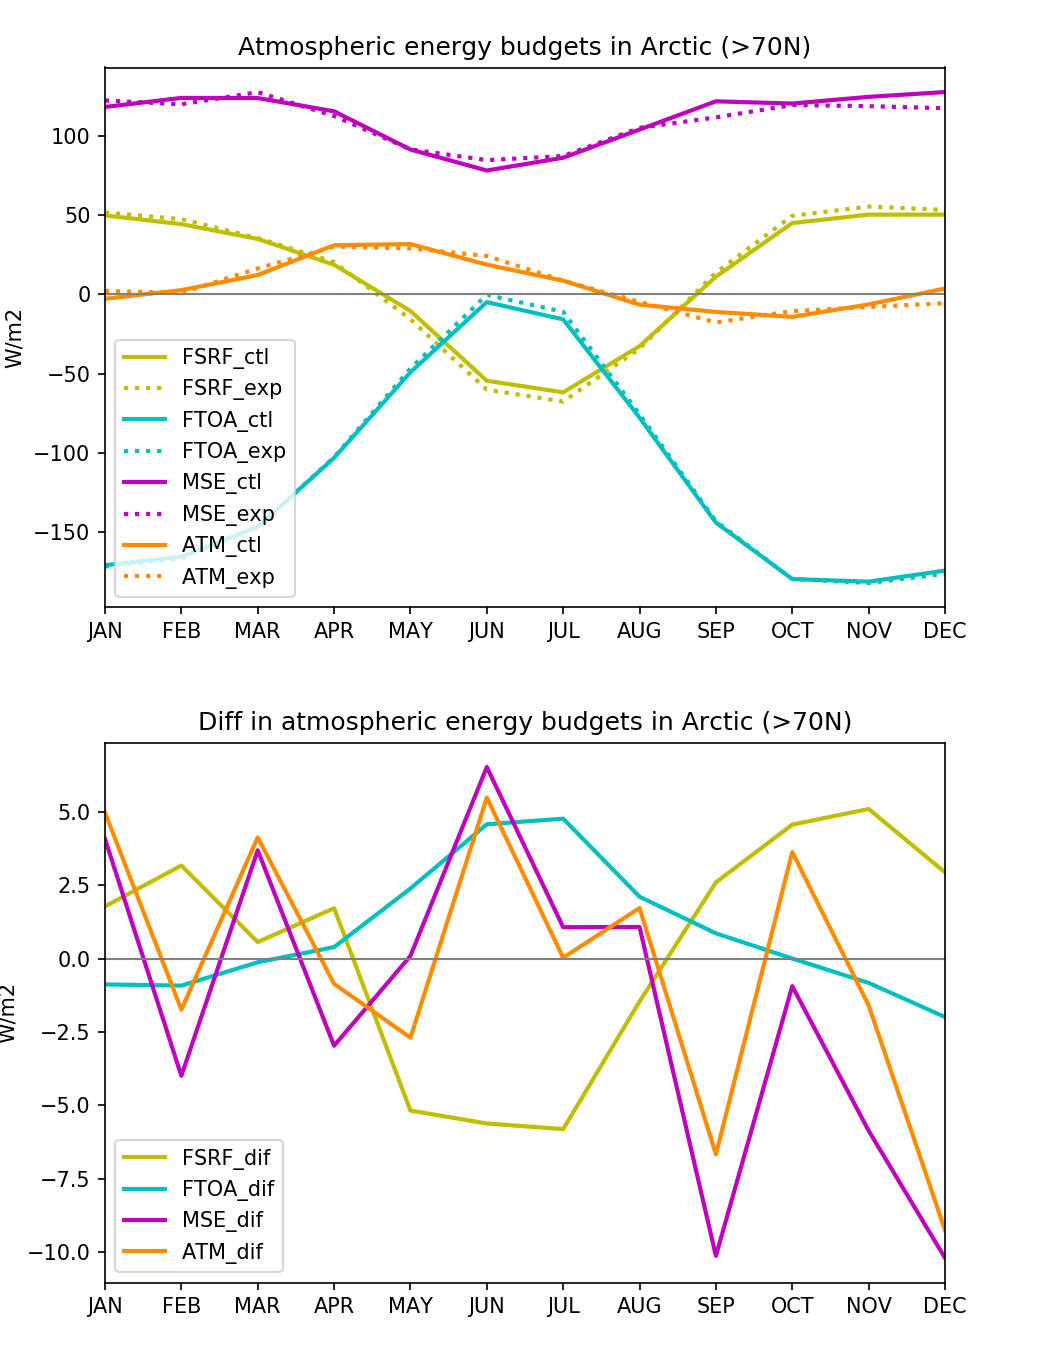
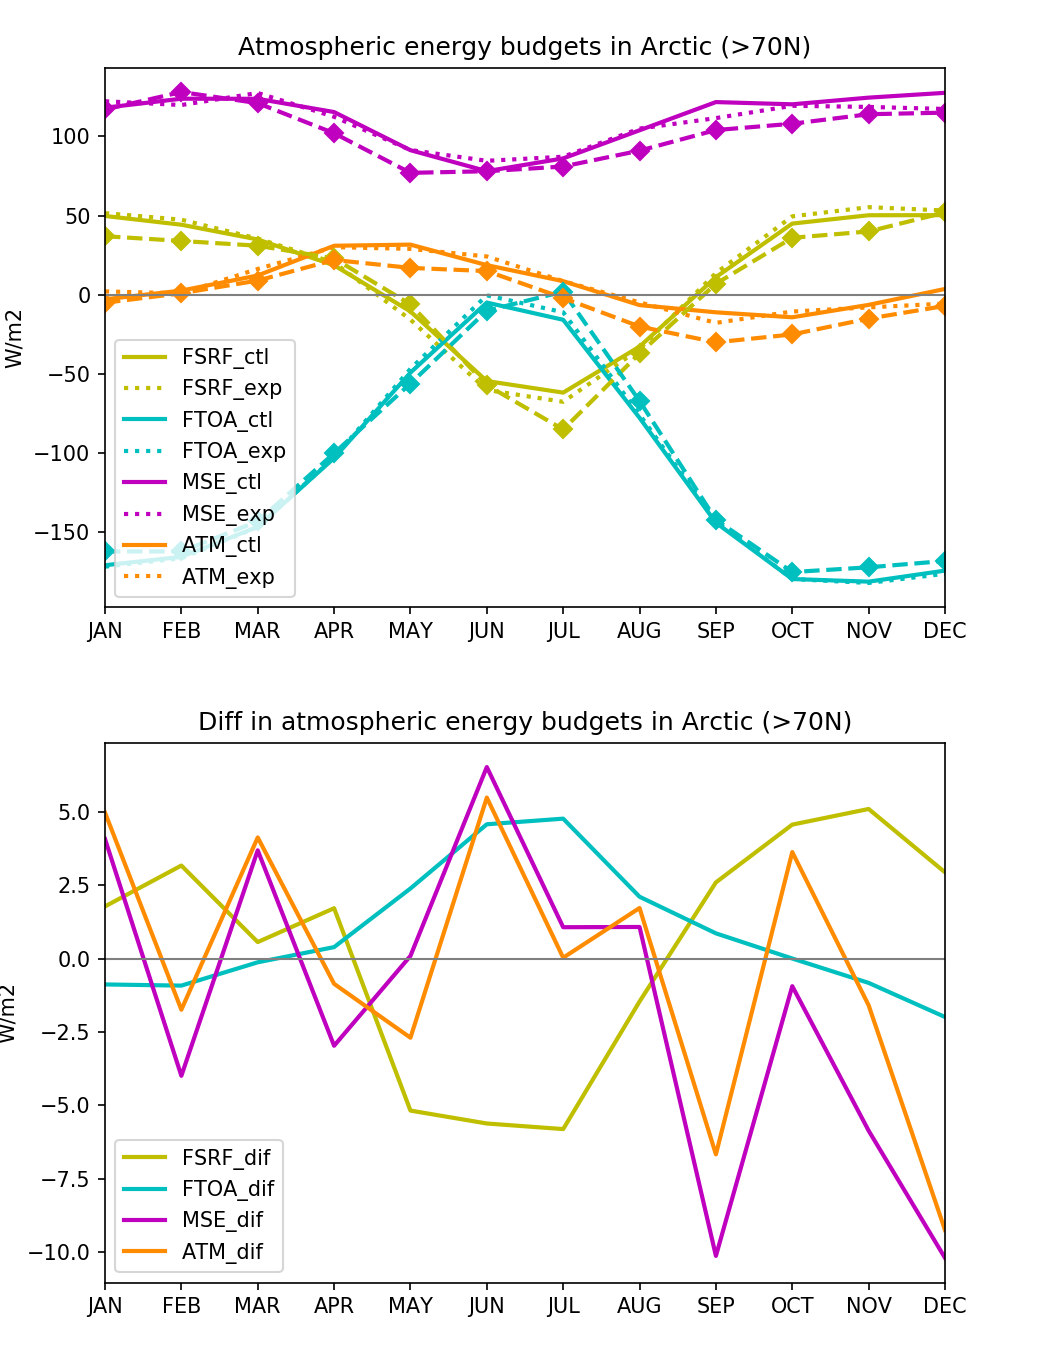
add observations for d12

diff --git a/d12_time_series_12month_model_vs_model.py b/d12_time_series_12month_model_vs_model.py
@@ -120,6 +120,11 @@ def time_series_12month_model_vs_model():
     #print(MSE_exp)
     #print(ATM_ctl)
     #print(ATM_exp)
+
+    FSRF_OBS=np.array([37.,34.,31.,23.,-6.,-57,-85.,-37.,7.,36.,40.,52.])
+    FTOA_OBS=np.array([-162.,-162.,-143.,-100.,-56.,-10.,2.,-67.,-142.,-175.,-172.,-168.])
+    MSE_OBS=np.array([117.,128.,121.,102.,77.,78.,81.,91.,104.,108.,114.,115.])
+    ATM_OBS=np.array([-5.,1.,9.,22.,17.,15.,-2.,-20.,-30.,-25.,-15.,-7.])
   # make plot
     xlocs=range(1,13)
     yzero=np.zeros(12)
@@ -135,6 +140,11 @@ def time_series_12month_model_vs_model():
     line_MSE_exp=ax1.plot(xlocs,MSE_exp,ls=":",lw=2,label="MSE_exp",c="m")
     line_ATM_ctl=ax1.plot(xlocs,ATM_ctl,ls="-",lw=2,label="ATM_ctl",c="darkorange")
     line_ATM_exp=ax1.plot(xlocs,ATM_exp,ls=":",lw=2,label="ATM_exp",c="darkorange")
+    if latlim is 70.:
+       line_FSRF_OBS=ax1.plot(xlocs,FSRF_OBS,ls="--",marker="D",lw=2,c="y")
+       line_FTOA_OBS=ax1.plot(xlocs,FTOA_OBS,ls="--",marker="D",lw=2,c="c")
+       line_MSE_OBS=ax1.plot(xlocs,MSE_OBS,ls="--",marker="D",lw=2,c="m")
+       line_ATM_OBS=ax1.plot(xlocs,ATM_OBS,ls="--",marker="D",lw=2,c="darkorange")
     line_yzero=ax1.plot(xlocs,yzero,ls="-",lw=1,c="gray")
     ax1.set(xlim=[1,12])
     ax1.set_xticks(xlocs)
